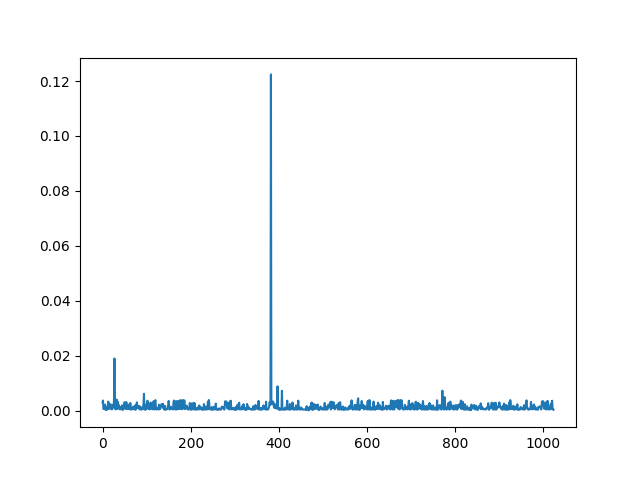
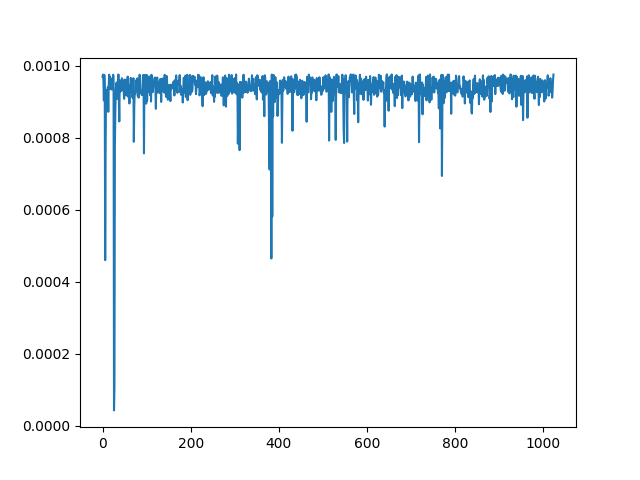
Dynamically chosen lambdas

diff --git a/ensemble.py b/ensemble.py
@@ -76,36 +76,50 @@ class Ensemble():
                                               Ensemble.renyiDiv(q, r, self.alpha)
                                               )
 
-    def calc_indiv_priv_loss(self, out_dist, pub_pred, N, lambd):
-        return max(torch.log(torch.max(lambd + pub_pred)) -
-                   torch.log(torch.max(lambd * ((N-1)/N + out_dist/N) + pub_pred)),
-                   torch.log(torch.max(lambd/N * out_dist + pub_pred)) -
-                   torch.log(torch.max(pub_pred)) 
-                   )**2
+    def calc_indiv_priv_loss(self, mix_dist, pub_pred, i, lambd):
+        #return max(torch.log(torch.max(lambd + pub_pred)) -
+        #           torch.log(torch.max(lambd * ((N-1)/N + out_dist/N) + pub_pred)),
+        #           torch.log(torch.max(lambd/N * out_dist + pub_pred)) -
+        #           torch.log(torch.max(pub_pred)) 
+        #           )**2
+        return max(torch.log(torch.max(mix_dist)) - 
+                   torch.log(torch.max((1 - lambd) * pub_pred)), 
+                   torch.log(torch.max((1 - lambd) * pub_pred)) -
+                   torch.log(torch.max(mix_dist))
+                )**2
 
     def priv_pred(self, output_dists):
-        #self.lambdas = [self.lambda_solver_bisection(output_dists[i].cpu(),
-        #                                            output_dists[self.num_ensemble].cpu(),
-        #                                            self.num_ensemble
-        #                                            ) for i in range(self.num_ensemble)]
-        lambd = 1/4 
+        self.lambdas = [self.lambda_solver_bisection(output_dists[i].cpu(),
+                                                    output_dists[self.num_ensemble].cpu(),
+                                                    i
+                                                    ) for i in range(self.num_ensemble)]
+        #self.lambdas = [0 for _ in range(self.num_ensemble)]
+        self.lambda_history.append(np.mean(self.lambdas))
+        mixed_dists = [self.mix(output_dists[i], output_dists[self.num_ensemble], self.lambdas[i])
+                       for i in range(self.num_ensemble)]
 
-        mixed_dists = torch.stack(output_dists[:-1])
-        ensemble_dist = lambd * torch.mean(mixed_dists, dim=0) 
-        pub_pred = (1-lambd) * output_dists[self.num_ensemble]
-        N = len(mixed_dists)
-        losses = [self.calc_indiv_priv_loss(out_dist, pub_pred, N, lambd)
-                   for out_dist in output_dists[:-1]]
+        #mixed_dists = [self.lambdas[i] * output_dists[i] +
+        #               (1 - self.lambdas[i]) * output_dist[self.num_ensemble]
+        #                for i in range(self.num_ensemble)]
+
+        mixed_dists = torch.stack(mixed_dists)
+        ensemble_dist = torch.mean(mixed_dists, dim=0) 
+        pub_pred = output_dists[self.num_ensemble]
+        #N = len(mixed_dists)
+        losses = [self.calc_indiv_priv_loss(mix_dist, pub_pred, i, self.lambdas[i])
+                   for i, mix_dist in enumerate(mixed_dists)]
         
         for i, loss in enumerate(losses):
             self.personalized_priv_loss[i].append(loss.cpu())
+        
+        return ensemble_dist
+        '''
 
-        ''' 
         if any(loss > self.target for loss in losses):
             self.lambda_history.append(lambd)
-            return pub_pred
- 
-        lambd = 1/4 
+            return (ensemble_dist + pub_pred)
+
+        lambd = 3/4 
         self.lambda_history.append(lambd)
 
         mixed_dists = torch.stack(output_dists[:-1])
@@ -118,35 +132,21 @@ class Ensemble():
         for i, loss in enumerate(losses):
             self.personalized_priv_loss[i].append(loss.cpu())
         '''
-        return (ensemble_dist + pub_pred)
 
-    def priv_pred_pairing(self, output_dists):
-        #mixed_dists = [lambd * (output_dists[i] + output_dists[j]) / (self.num_ensemble) 
-        #                for i, j in self.pairings]
-        #ensemble_dist = sum(mixed_dists) 
-        #ensemble_dist += pub_pred 
-        #self.calc_per_inst_priv_loss(ensemble_dist-pub_pred, mixed_dists, lambd, pub_pred)
-        #losses = self.calc_indiv_priv_loss(ensemble_dist-pub_pred, mixed_dists,
-        #                                 lambd, pub_pred, active_set)
-        pass
-
-    
-    def lambda_solver_bisection(self, p, pub_pred, N):
+    def lambda_solver_bisection(self, p, pub_pred, i):
         def f(lambd):
-            p_mix = self.mix(p, pub_pred, N, lambd)
-            eps = self.calc_indiv_priv_loss(p_mix, pub_pred, N)
-            return eps - self.target 
-        if f(0) > 0.0:
-            lambd = 0 
-        elif f(1) <= 0.0:
-            lambd = 1
+            p_mix = self.mix(p, pub_pred, lambd)
+            eps = self.calc_indiv_priv_loss(p_mix, pub_pred, i, lambd)
+            return (eps - self.target)
+
+        if f(0.99) <= 0.0:
+            lambd = 0.99 
         else:
-            lambd = bisect(f, 0, 1, maxiter=10, disp=False)
+            lambd = bisect(f, 0, 0.99, maxiter=10, disp=False)
         return lambd
 
-    def mix(self, p, p_prime, N, lambd=0.5):
-        mix_out = (lambd * p + (1-lambd) * p_prime) / N
-        return mix_out
+    def mix(self, p, p_prime, lambd=0.5):
+        return (lambd * p + (1-lambd) * p_prime)
 
 
     def reg_pred(self, output_dists):
